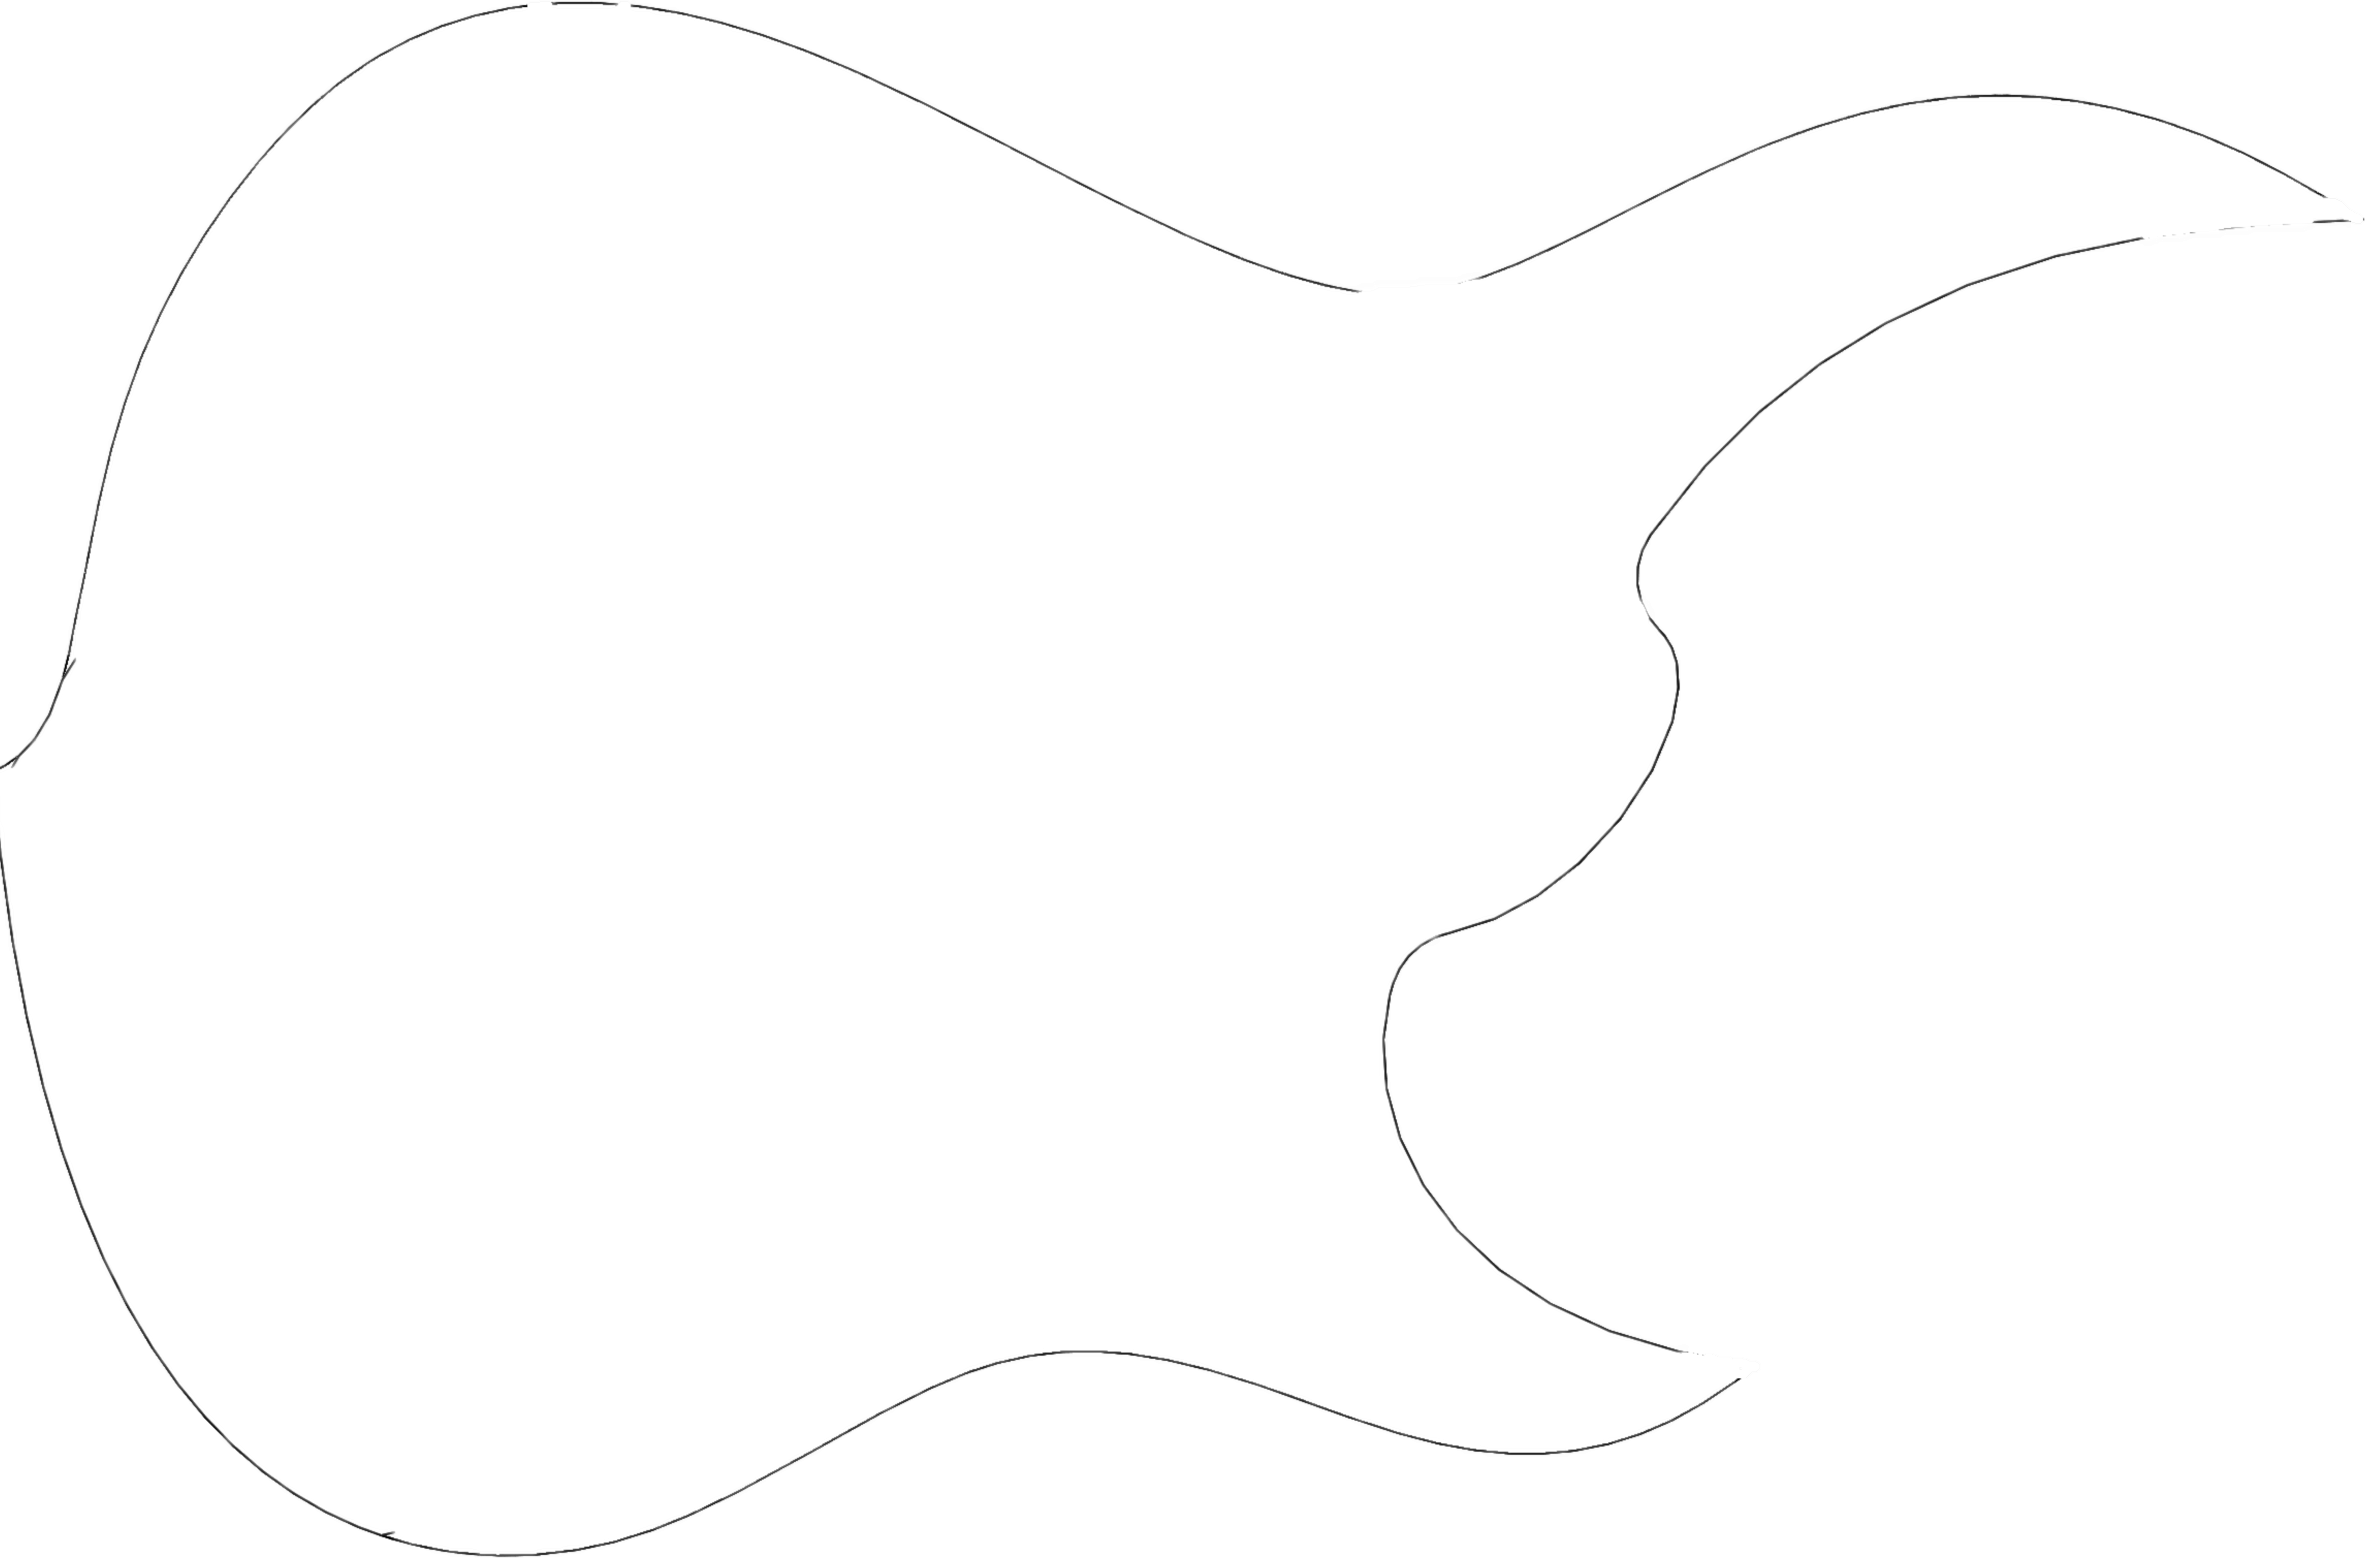
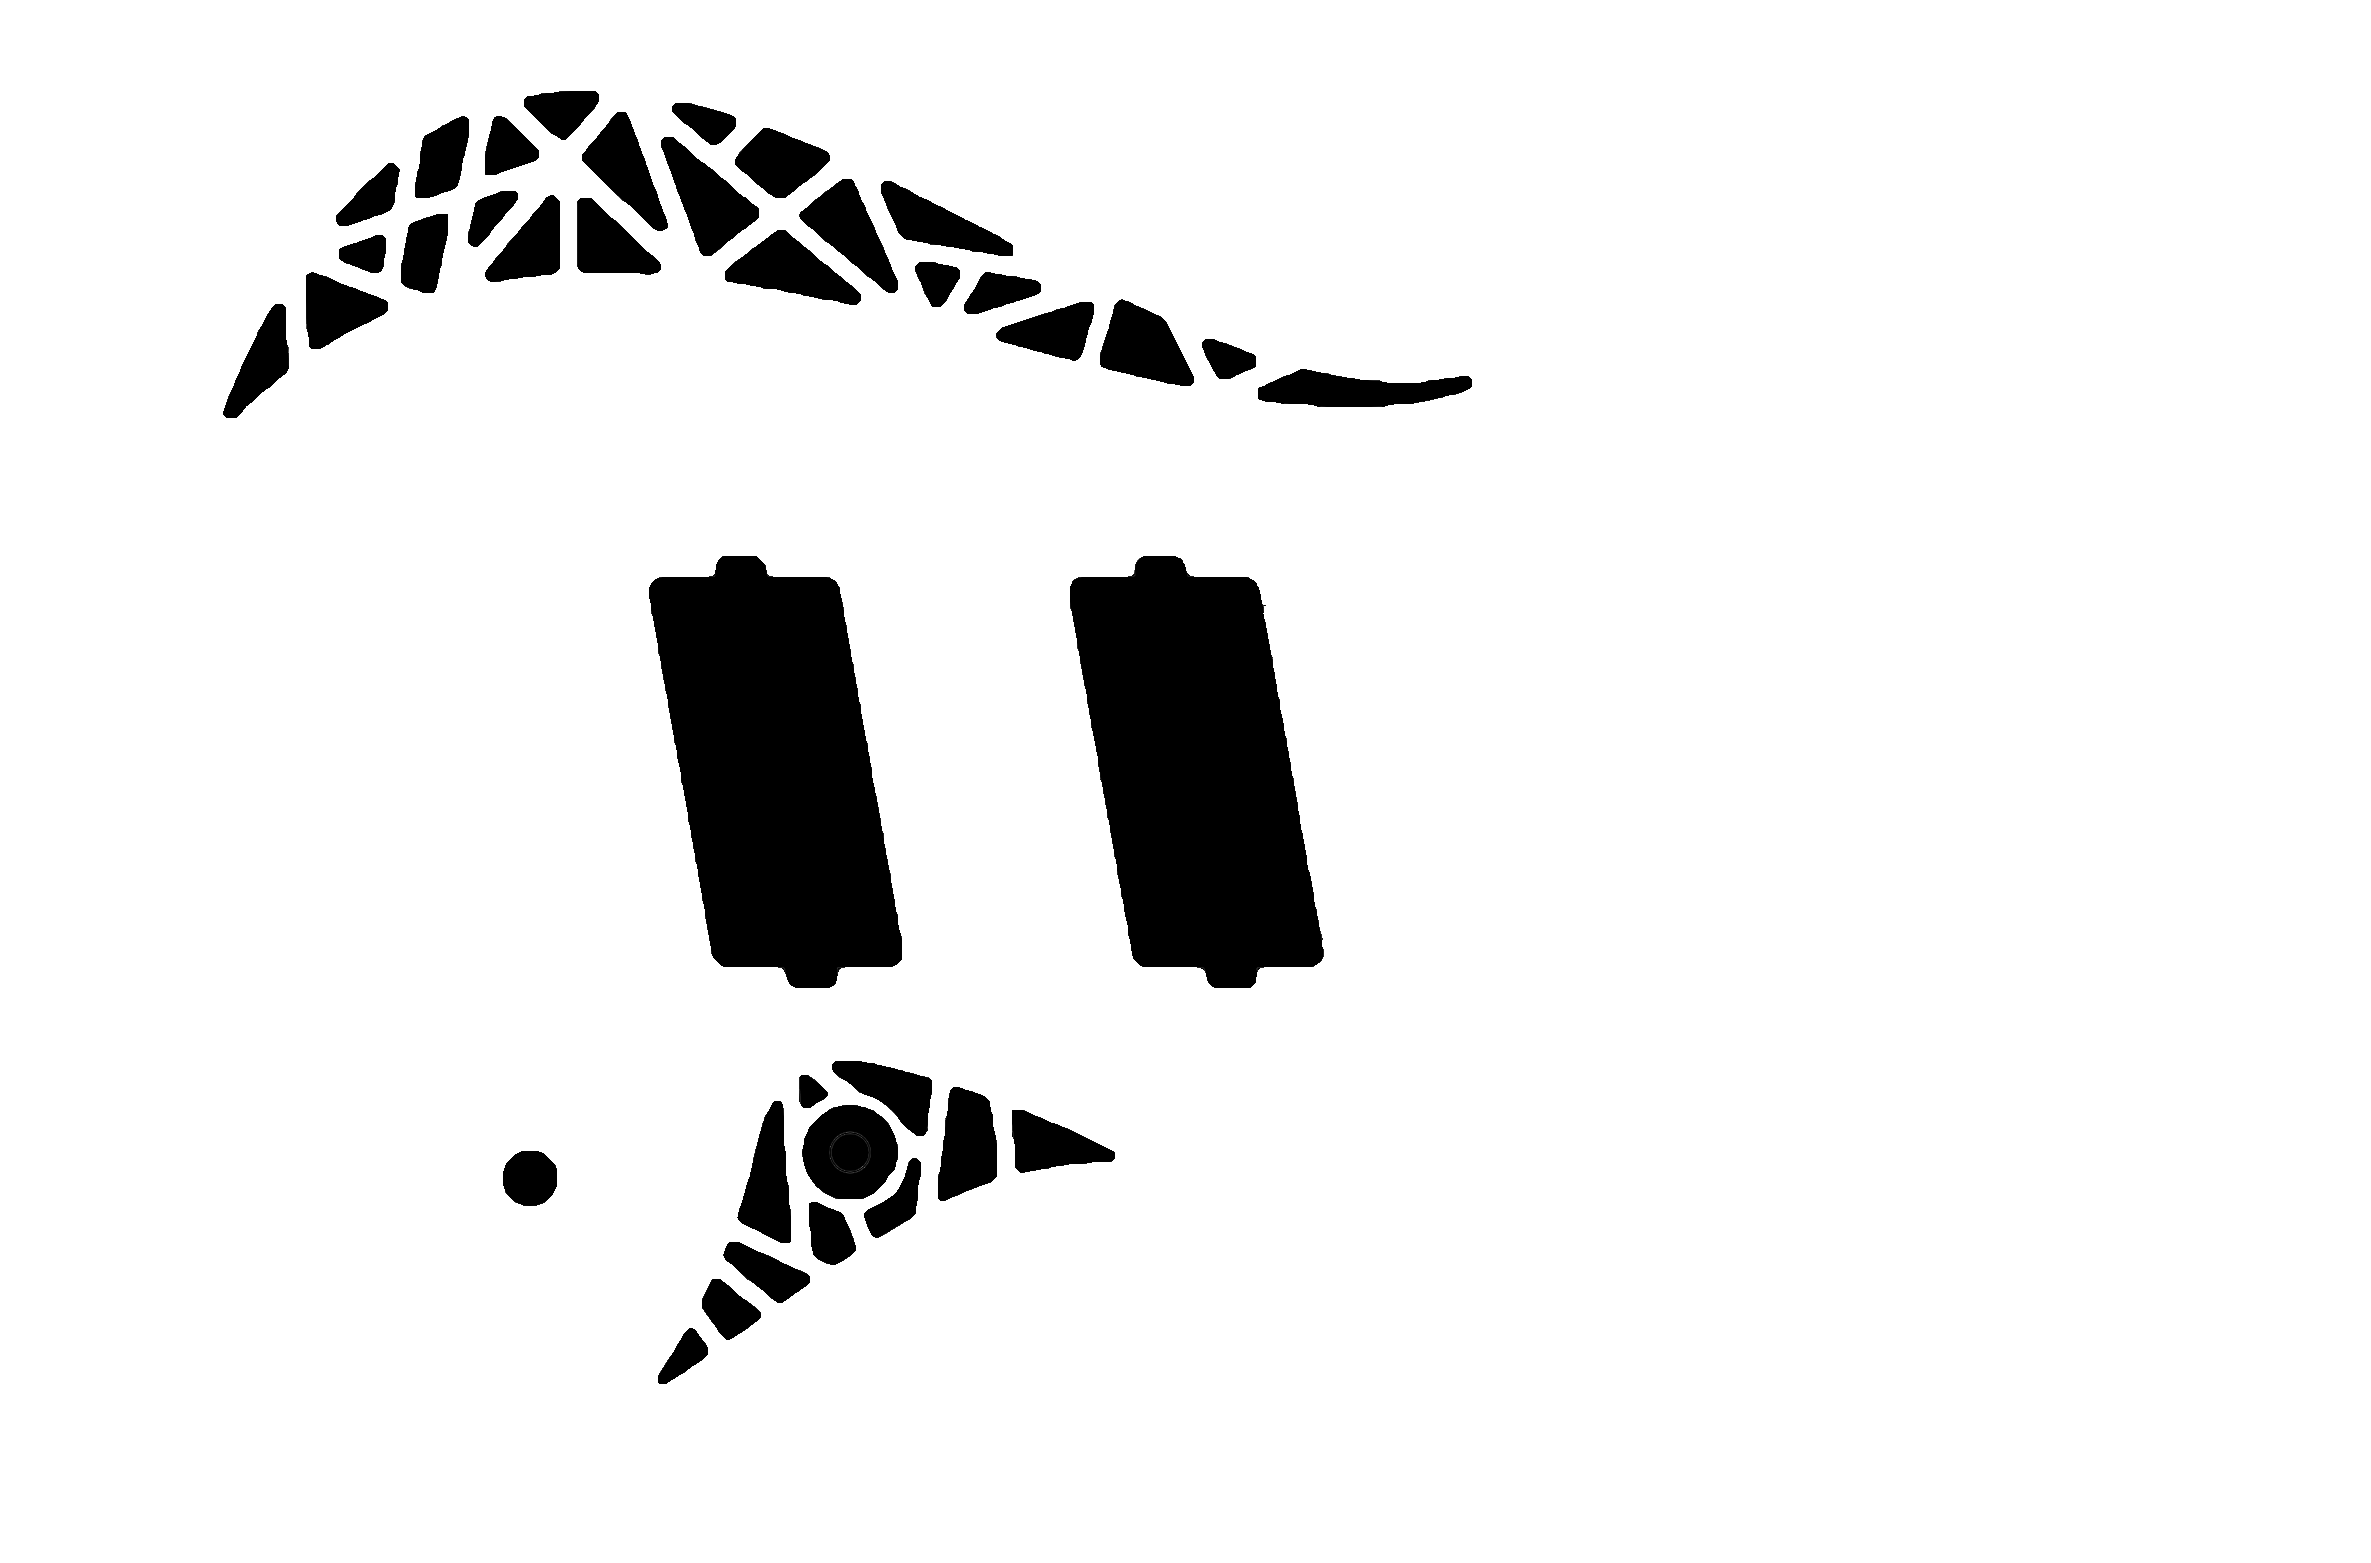
with body top woods

diff --git a/index.html b/index.html
@@ -18,23 +18,37 @@
             <input type="radio" name="body-shape" id="asteria" value="asteria" onclick="bodyShapeSelected()" checked>
             Asteria
         </label>
-        
+
         <label for="cybele">
             <input type="radio" name="body-shape" id="cybele" value="cybele" onclick="bodyShapeSelected()">
             Cybele
         </label>
-        
+
+        <h3>Body top Wood:</h3>
+        <label for="wenge">
+            <input type="radio" name="body-top-wood" id="wenge" value="wenge" onclick="bodyTopWoodSelected()">
+            Wenge
+        </label>
+
+        <label for="flame-maple">
+            <input type="radio" name="body-top-wood" id="flame-maple" value="flame-maple"
+                onclick="bodyTopWoodSelected()" checked>
+            Flame-maple
+        </label>
+
         <h3>Fretboarf type:</h3>
         <label for="parallel">
-            <input type="radio" name="fretboard-shape" id="parallel" value="parallel" onclick="fretboardShapeSelected()">
+            <input type="radio" name="fretboard-shape" id="parallel" value="parallel"
+                onclick="fretboardShapeSelected()">
             Parallel frets
         </label>
-        
+
         <label for="slanted">
-            <input type="radio" name="fretboard-shape" id="slanted" value="slanted" onclick="fretboardShapeSelected()" checked>
+            <input type="radio" name="fretboard-shape" id="slanted" value="slanted" onclick="fretboardShapeSelected()"
+                checked>
             Slanted frets
         </label>
-        
+
         <h3>Headstock shape:</h3>
         <label for="minerva">
             <input type="radio" name="headstock-shape" id="minerva" value="minerva" onclick="headstockShapeSelected()">
@@ -42,16 +56,16 @@
         </label>
 
         <label for="rhea">
-            <input type="radio" name="headstock-shape" id="rhea" value="rhea" onclick="headstockShapeSelected()" checked>
+            <input type="radio" name="headstock-shape" id="rhea" value="rhea" onclick="headstockShapeSelected()"
+                checked>
             Rhea
         </label>
     </form>
 
     <div class="modeler-display">
         <section class="guitar-body-section">
-            <img src="./imgs/bodies/Asteria.PNG" class="asteria body-shape">
-            <img src="./imgs/bodies/Cybele.PNG" class="cybele body-shape hide">
-            <img src="./imgs/woods/wenge.jpg" class="wemge wood hide">
+            <img src="./imgs/bodies/Asteria negative.png" class="asteria body-shape flame-maple">
+            <img src="./imgs/bodies/Cybele negative.png" class="cybele body-shape flame-maple hide">
         </section>
         <section class="guitar-neck-section">
             <img src="./imgs/fretboards/7s .PNG" class="parallel fretboard-shape hide">

diff --git a/logic.js b/logic.js
@@ -1,11 +1,17 @@
 'use strict';
 
 let modelerForm = document.querySelector('.modeler-form');
-
+let lastBodyTopWoodSelected = 'flame-maple';
 
 function bodyShapeSelected() {
     document.querySelectorAll('.body-shape').forEach(bodyShape => bodyShape.classList.add('hide'));
     document.querySelector(`.${event.target.value}.body-shape`).classList.remove('hide');
+}
+
+function bodyTopWoodSelected() {
+    document.querySelectorAll('.body-shape').forEach(bodyShape => bodyShape.classList.remove(lastBodyTopWoodSelected));
+    document.querySelectorAll('.body-shape').forEach(bodyShape => bodyShape.classList.add(event.target.value));
+    lastBodyTopWoodSelected = event.target.value;
 }
 
 function fretboardShapeSelected() {

diff --git a/style.css b/style.css
@@ -41,11 +41,14 @@ body {
     left: 3%;
 }
 
-.wood {
-    height: 55.03%;
-    z-index: -1;
-    position: absolute;
-    /* left: 0%; */
+.wenge {
+    background-image: url(./imgs/woods/wenge.jpg);
+    background-position: center;
+}
+
+.flame-maple {
+    background-image: url(./imgs/woods/flame\ maple.jpg);
+    background-position: center;
 }
 
 .guitar-neck-section {
